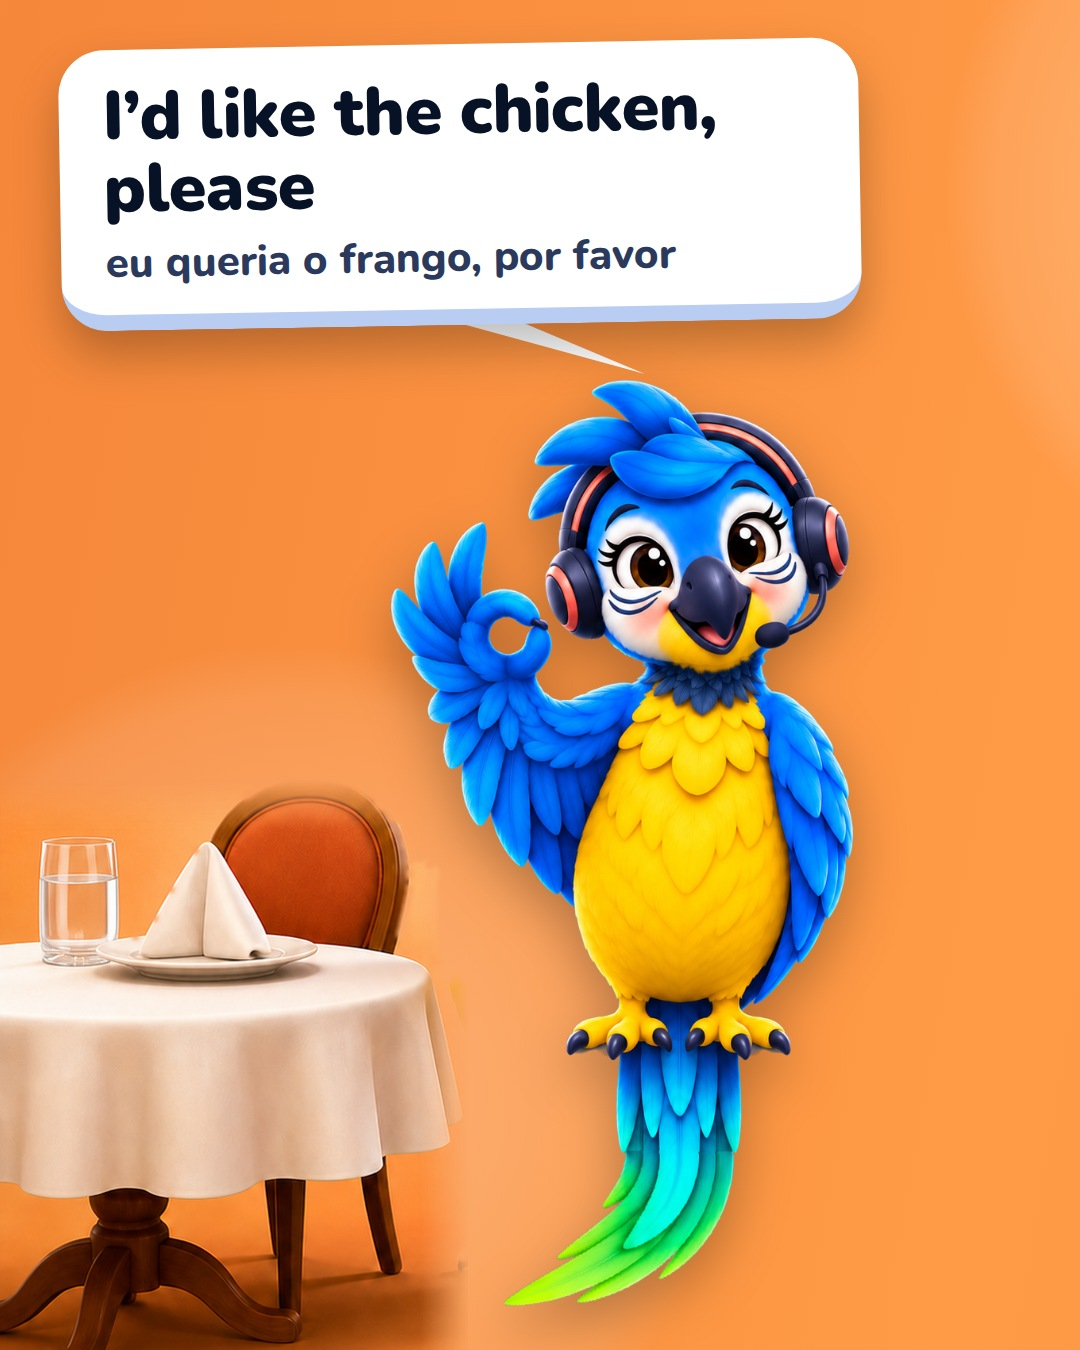
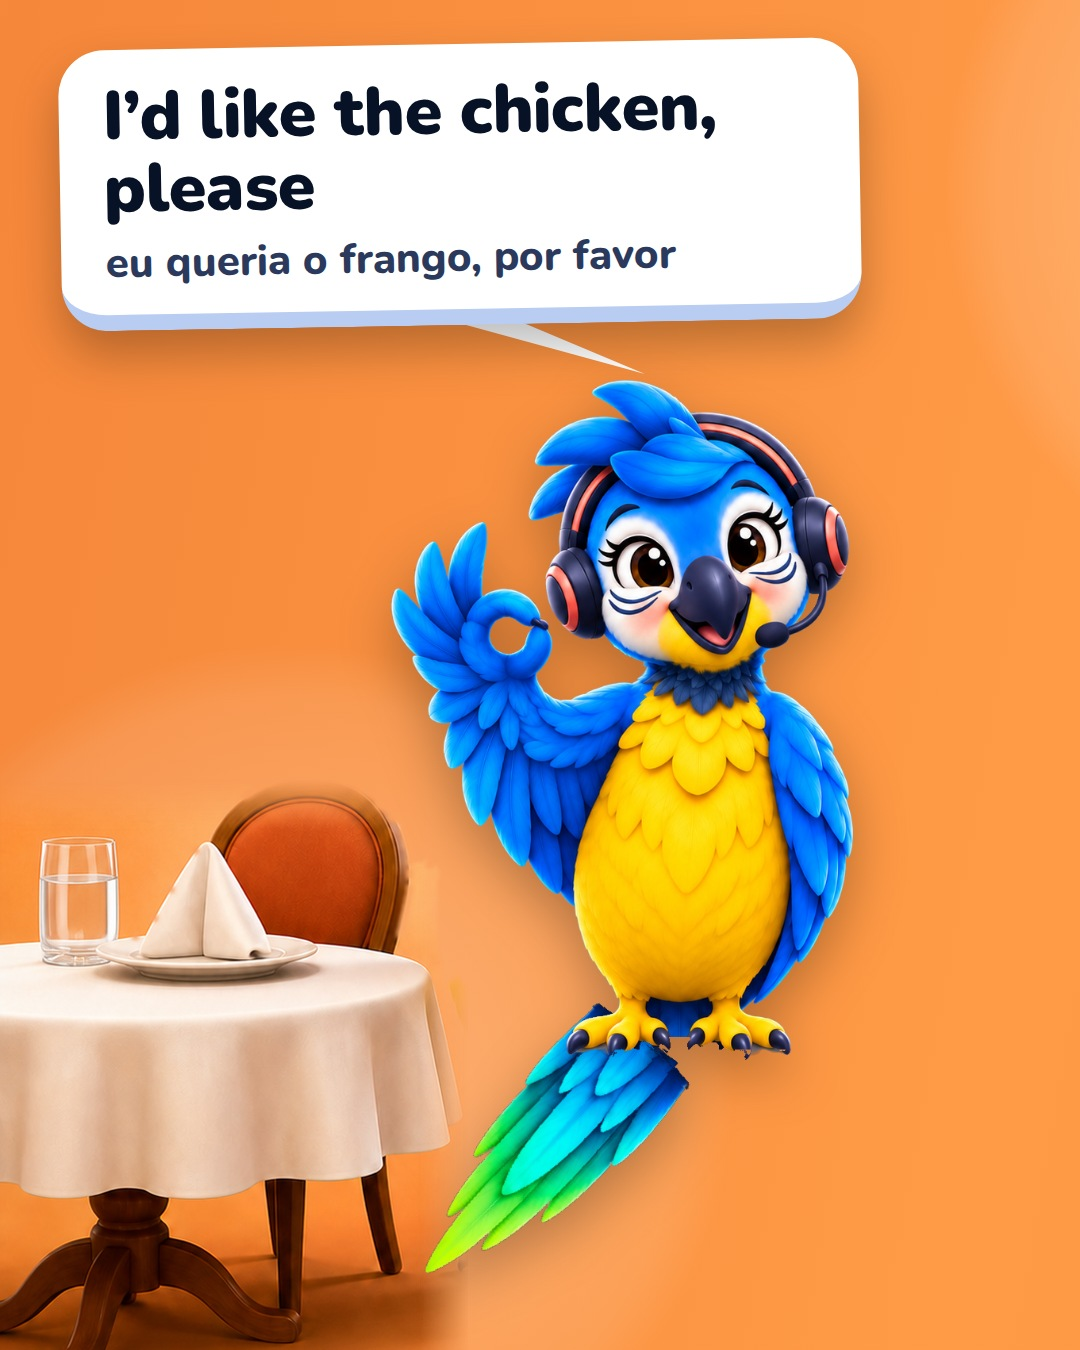
fix(arara): rabo nasce por tras dos pes no pio da semana e no story 115

Changed region(s): [[0.3972, 0.7467, 0.7028, 0.9956]]

diff --git a/rara_log_geracao.md b/rara_log_geracao.md
@@ -963,3 +963,5 @@ G15 italiano v2 (06/11/2026): rara_gesto_italiano_v2---ead3910f salva como gesto
 - **Skill arara-reels recebido (13/11/2026, ~00h50 UTC):** `arara-reels-skill.zip` do Rodrigo, extraído em pasta própria, conteúdo lido (SKILL.md v2 e 3 referências), instalado em `~/.openclaw/workspace/skills/arara-reels/` (mais nota `ATUALIZACOES_DO_AGENTE.md`) e copiado em `reels_estilo/skill_arara_reels/`. Reels BLOQUEADOS; só o piloto de estilo, com plano em `_ponte_claude/planos/PILOTO_reels_estilo_plano_20261113.md` e teto a aprovar por escrito (proposto US$ 15). Bloqueios: saldo do OpenRouter US$ 0,82 (mínimo US$ 1), `rembg` e `aubio` não instalados, `@remotion/three` não instalado, sem captura real do app para o S9. Nada gerado.
 - **Piloto de estilo, preparo (13/11/2026):** skill versionado em `arara-identidade/arara_social/video/skill/`; canônicas conferidas (9 de 9 OK); inventário do dia em `video/_inventario/2026-11-13.json` (281 artes, versão mais alta de cada); transições S1, S4, S6 e S9 como componentes em `video/src/transicoes/` (2D, sem 3D; pena 3D e celular 3D aguardam `@remotion/three`), com tokens do app copiados em `src/lib/motion.ts` e composição de teste `TesteTransicoes` (cenas de cor chapada). Instalados `@remotion/transitions`, `@remotion/noise` e `@remotion/media-utils` 4.0.543. Nada pago gerado; aguarda teto do piloto.
 - **@remotion/three instalado (13/11/2026), com OK do Rodrigo ("pode instalar o remotion"):** `@remotion/three` 4.0.543, `three` 0.170.0, `@react-three/fiber` 9.0.0, `@types/three` 0.170.0, sem custo. Typecheck limpo. Ainda NÃO instalados: `rembg` e `aubio` (sem OK). Teto do piloto, saldo, captura do app e ordem seguem sem resposta.
+- **Rara em camadas, C01 (16/11/2026), pedido do Rodrigo via Claude Code ("ok" à abordagem híbrida, quadro 1254 px, teto US$ 1,00):** 21 camadas em `personagens/rara/camadas/saida/` (corpo com golinha, cabeça, topete 3 mechas, olhos aberto/fechado/feliz, pupilas, bico de cima e de baixo, asas fechadas, cauda 3 segmentos, pés, costas), pivôs e ordem em JSON/TXT, README, folha, montagem e teste de movimento. **Custo US$ 0** (recortes da C01 e do kit registrado). Correção minha: o kit K00 NÃO estava alinhado à C01 (é um busto em escala maior); registrei por escala 0,756 e deslocamento (238, 6). Montagem vs C01: diferença média 7,3/255, só na cabeça. **Asas abertas NÃO feitas:** a chave do OpenRouter tem limite mensal de US$ 10 com US$ 0,76 restantes e a API pede US$ 1,00 para imagem (HTTP 402); prompt pronto em `camadas/prompts/asas_abertas_v1.md`. Custo real por imagem medido: US$ 0,068 (não 0,03 como eu estimei). Entrega na ponte: `_ponte_claude/entregas/ART-13_rara_em_camadas_20261116.md`. Rascunho, aguardando revisão; sem commit até o OK.
+- **Rabo nunca reto (17/11/2026), pedido do Rodrigo ao ver o story M01 no ar ("não quero nenhum com o rabo reto"):** levantei o que estava agendado. Retos: post pio-restaurante (slides 2 a 7) e stories 115, 106, 111 (110, na rede, pende por gravidade, a decidir). Corrigidos e já na URL pública do arara-social-assets: **pio-restaurante 2 a 7** (recortes G07, G02, ARDENCIA, G09, G01, G06 com rabo curvado por `bend_tail_gen.py`, `*_cc.png`, HTML `pio4.html`, escala e posição mantidas; slide 1 igual), **story 115** (cartão refeito com o slide novo, fundo desfocado recalculado, contra-prova com o slide antigo reproduz o original com diferença média 0,59) e **story 111** (M05 por `bend_tail_scene.py`; só a região do rabo mudou, resto idêntico). **Story 106 (M03, cafeteria escura) NÃO corrigido:** a edição por cor deixou o rabo rasgado e um borrão no chão, nota 5/10; precisa de nova geração com "tail curved to the side" (OpenRouter travado: limite mensal da chave, US$ 0,76 restantes). Originais em `_historico/rabo_reto_20261117/`. Commits `4688350`, `bc6ab06` e o do 111 no repo de assets. Regra adicionada à rotina `arara-producao-semanal`, ao `guia_de_estilo_arara.md` e à memória.
